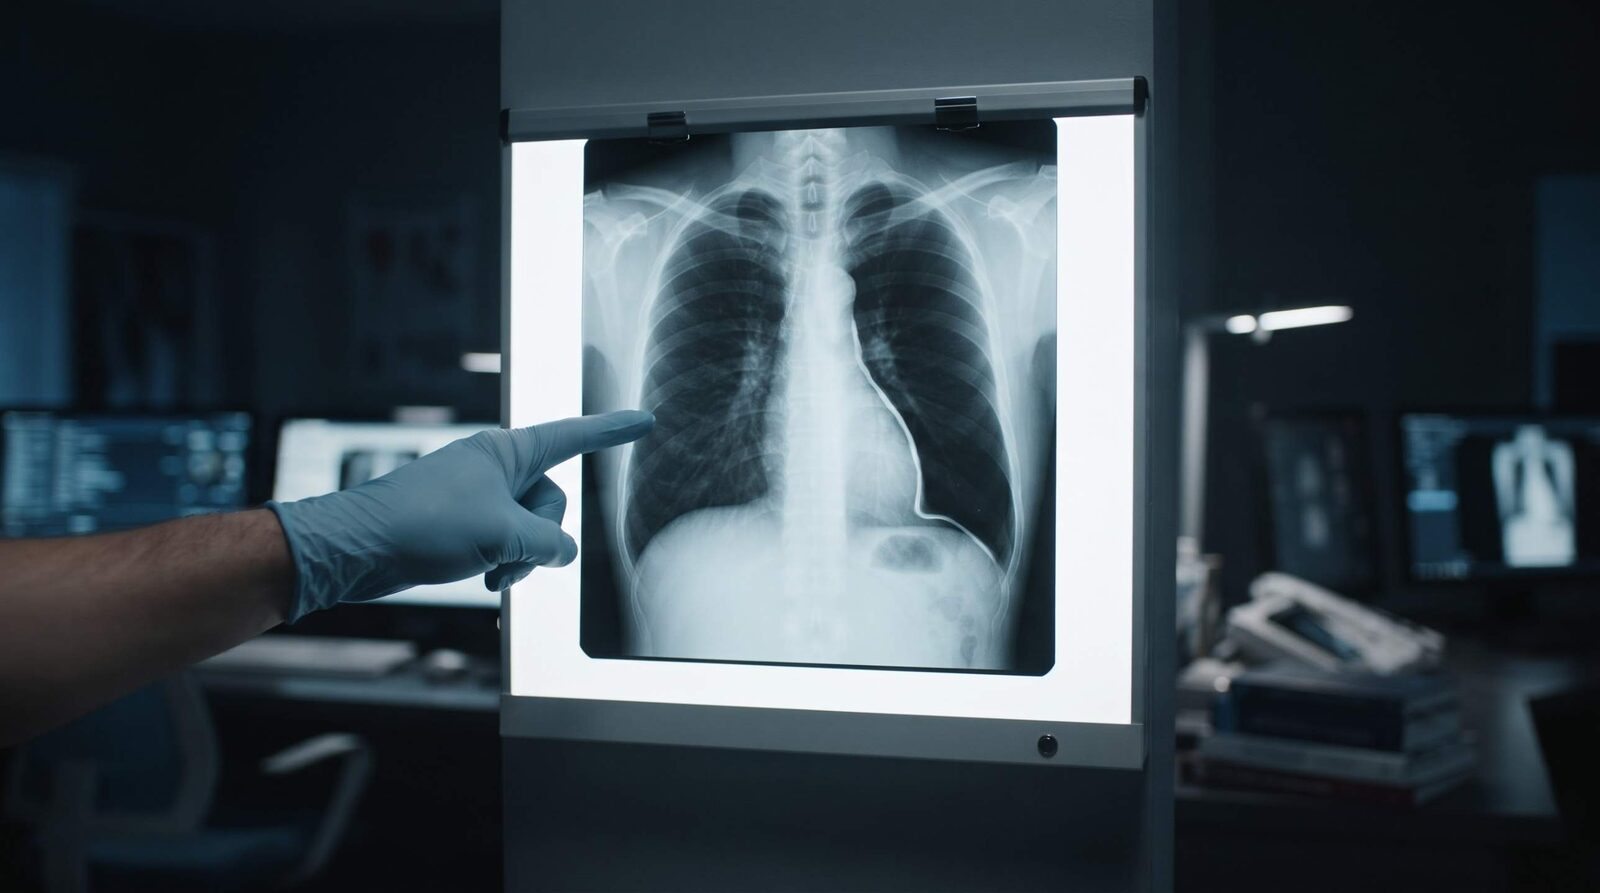
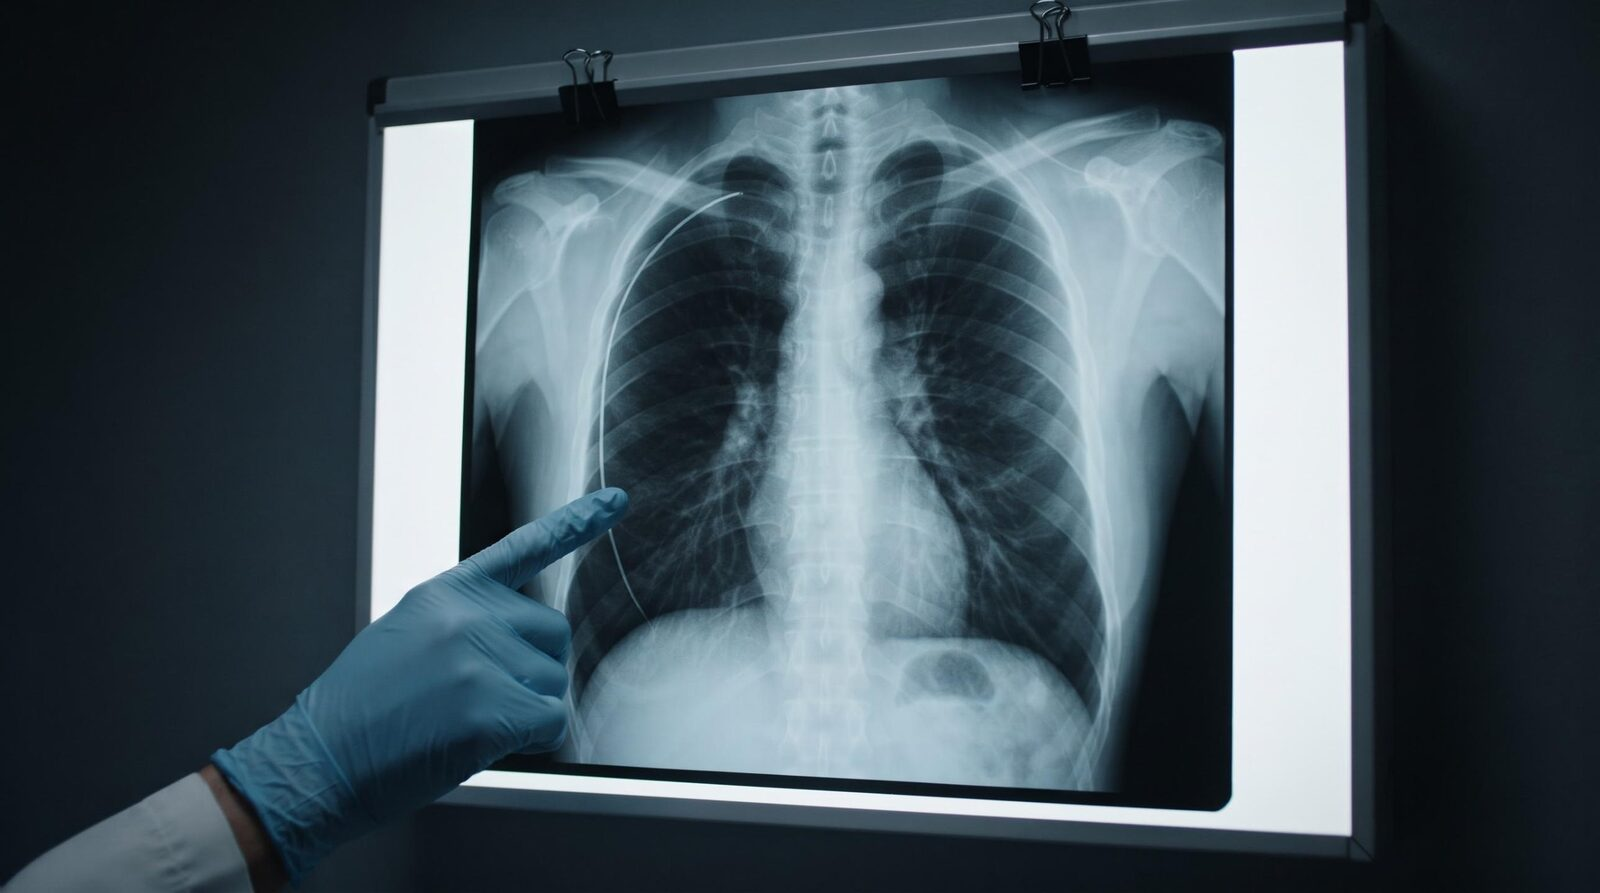
M2V1: novo raio X do pneumotórax, com legenda que nomeia o achado
Troca autorizada pelo autor no voo congelado; hash refeito.

Claude-Session: https://claude.ai/code/session_015j7FjbKxQade2dwvhzidMk

diff --git a/src/data/capitulos/hipoxia.ts b/src/data/capitulos/hipoxia.ts
@@ -47,7 +47,9 @@
 // - MEDIF: formulário médico das companhias aéreas (ex.: SWISS, lx_medif-form_en.pdf).
 // 02/11/2026: 8 fotos dos tópicos VI a IX (topicos/m2v1-6..9-*.jpg, pessoas fictícias), no padrão do app (1.600 × 893 px);
 //   borrados o número da poltrona e o rótulo do batom (bombinha), os painéis e a dragona (sonolência) e a marca do
-//   monitor (teste). O raio X não mostra um pneumotórax típico: a legenda não afirma o achado. Voo congelado de novo.
+//   monitor (teste). Voo congelado de novo.
+// 02/11/2026: raio X do pneumotórax trocado com autorização do autor (imagem nova com linha pleural e faixa sem
+//   desenho pulmonar); legenda passa a nomear o achado; hash refeito.
 
 import type { Capitulo } from '../tipos';
 import { liberacaoRespiratorio } from '../liberacao/respiratorio';
@@ -284,7 +286,7 @@ export const hipoxia: Capitulo = {
           "**Não voe** com dor no peito ou falta de ar súbita, com pneumotórax ainda visível no raio X ou antes do prazo depois de cirurgia, biópsia ou broncoscopia. O médico registra a **data da resolução no raio X**, o tipo de tratamento e se houve recorrência: é essa data que conta os dias.",
         ].join('\n\n'),
         recursos: [
-          { paragrafo: 1, figura: { imagem: require('@/assets/images/topicos/m2v1-8-raio-x.jpg'), legenda: 'O raio X do tórax confirma o pneumotórax e, depois, mostra o pulmão de novo expandido: é dessa data que se contam os dias.' } },
+          { paragrafo: 1, figura: { imagem: require('@/assets/images/topicos/m2v1-8-raio-x.jpg'), legenda: 'No raio X, a linha branca fina é a borda do pulmão colapsado; por fora dela, a faixa escura sem desenho do pulmão é o ar do pneumotórax.' } },
           { paragrafo: 2, midia: 'grafico-boyle' },
           { paragrafo: 3, midia: 'prazo-voo-pulmao' },
           {
